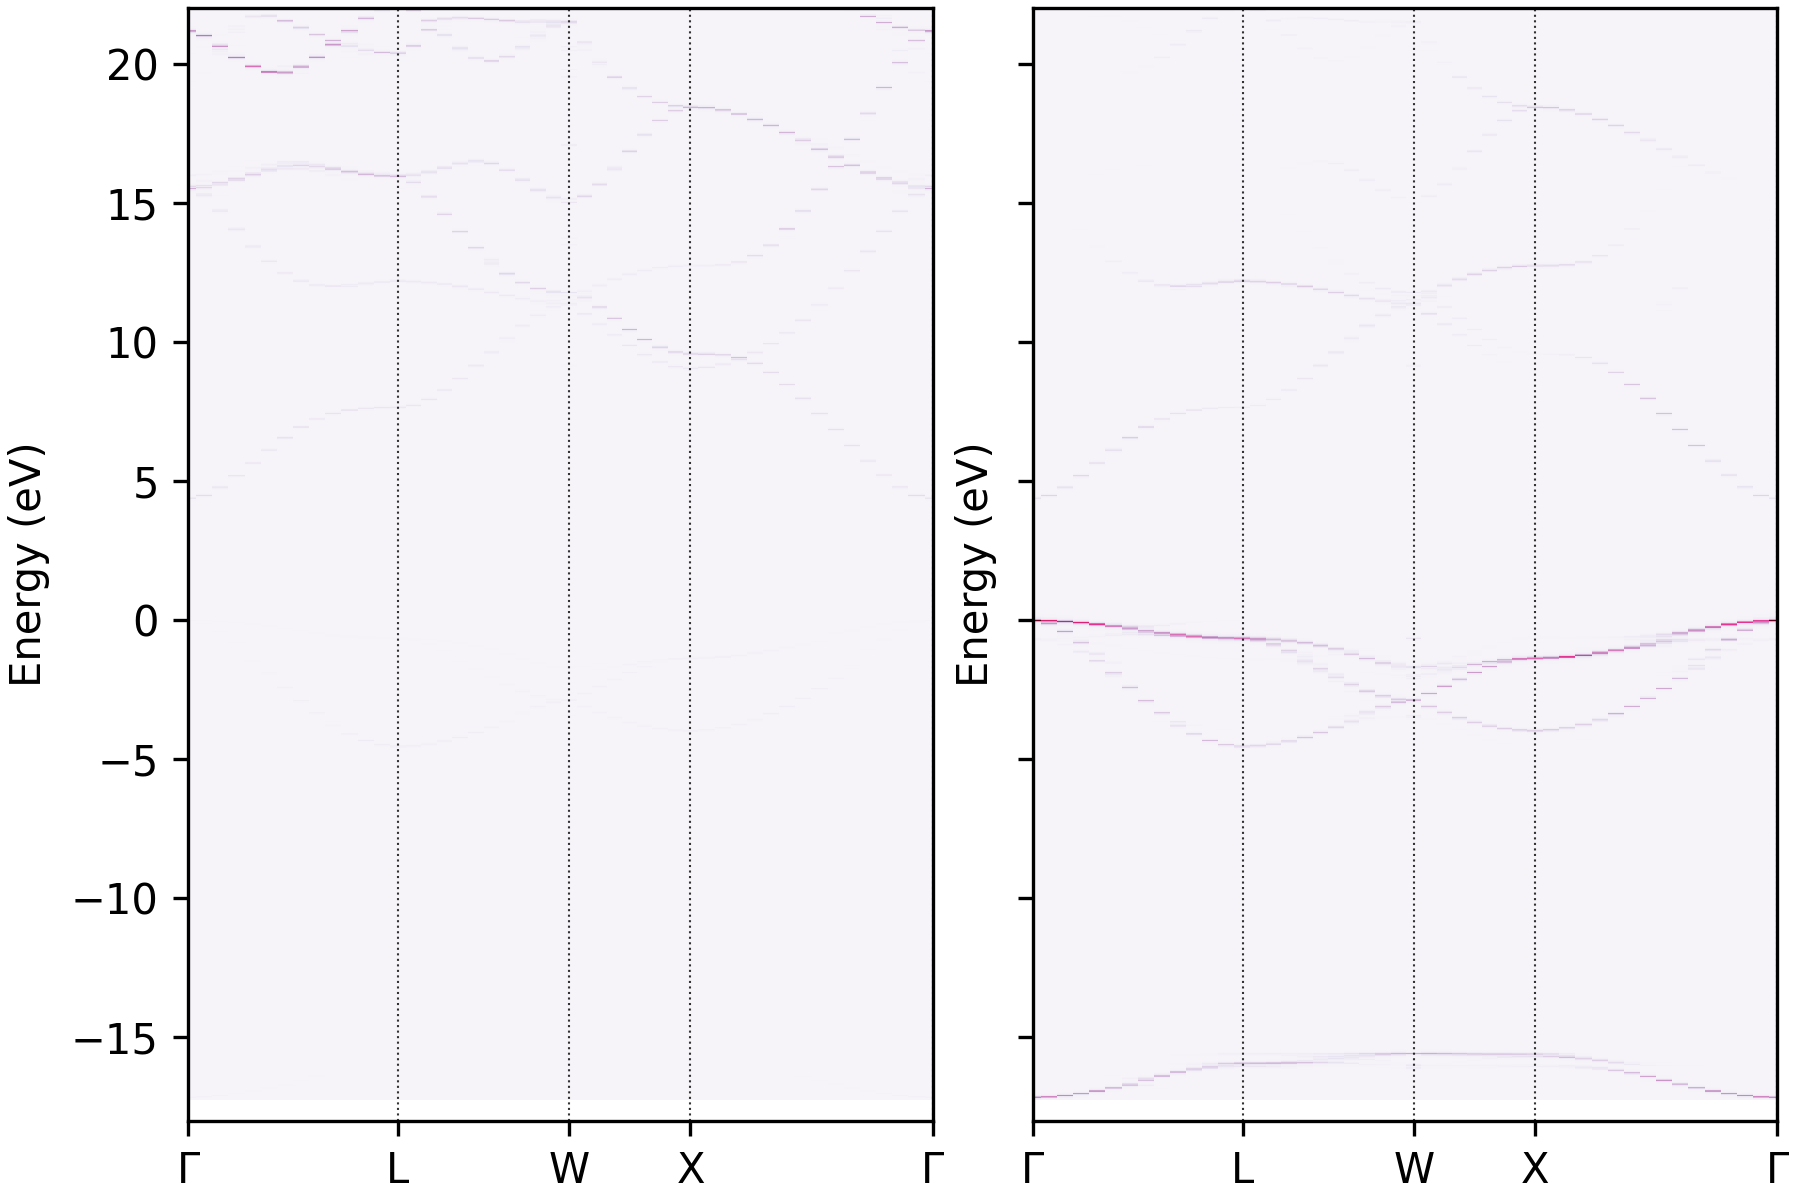
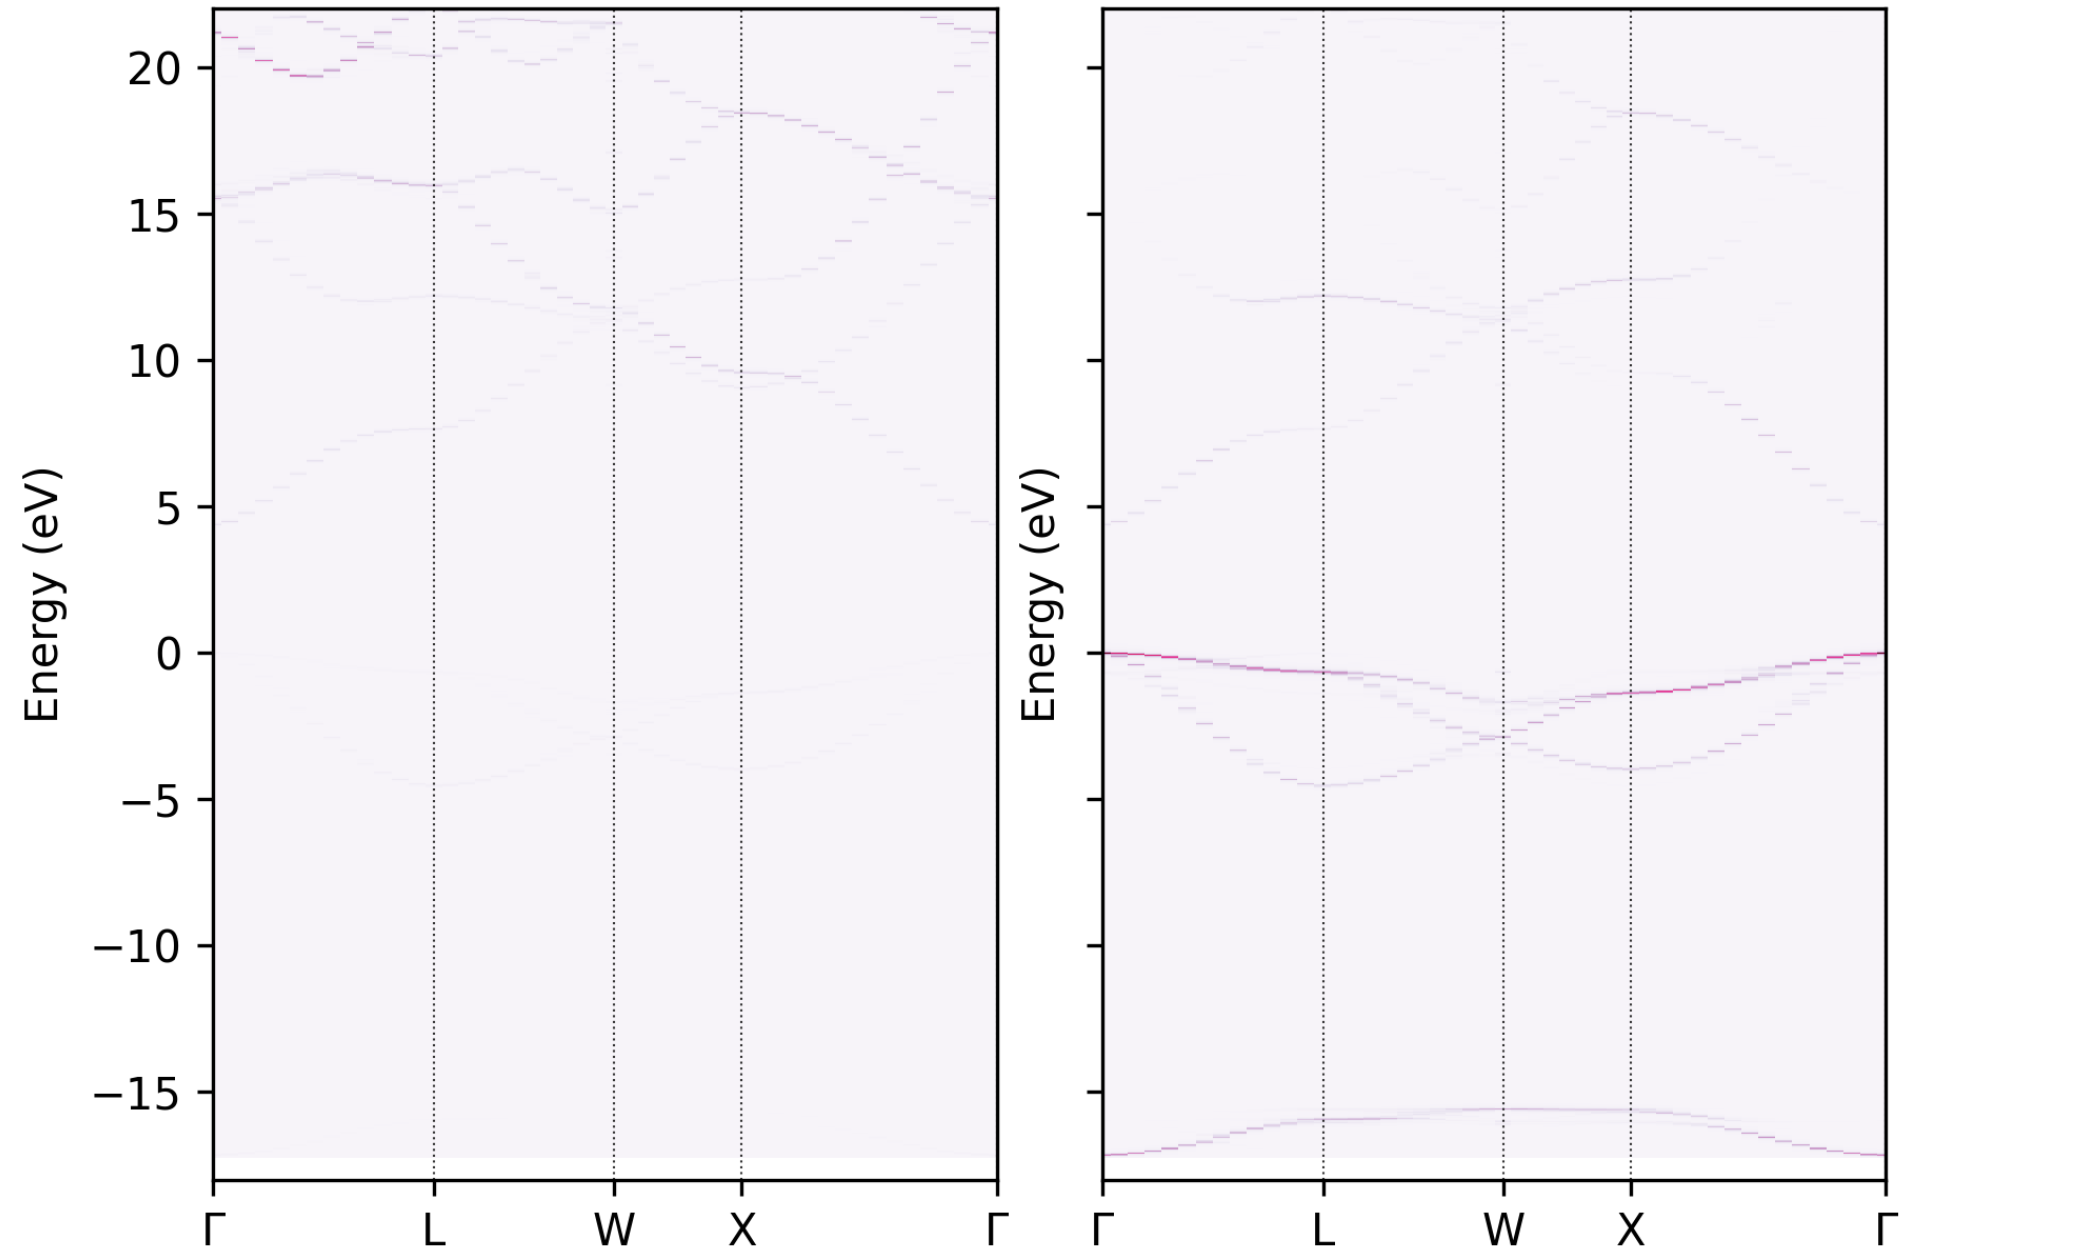
Update `MgO` docs example

diff --git a/docs/examples/example_mgo.md b/docs/examples/example_mgo.md
@@ -1,13 +1,16 @@
 # MgO with atomic projections
 
 :::{note}
-Relevant files can be found in the `examples/MgO` folder.
+The files needed for this example are provided in the 
+[examples/MgO](https://github.com/SMTG-UCL/easyunfold/tree/main/examples/MgO) folder.
 :::
 
-In some cases, it is useful to know the atomic contributions of the bands.
-This can be done for unfolded bands as well.
+Often it is useful to know the various contributions of atoms in the structure to the electronic bands 
+in the band structure, to analyse the chemistry and orbital interactions at play in the system. This 
+can be computed for unfolded bands as well.
 
-For a normal band structure, the contributions can be inferred by colouring the band according to the elemental contributions.
+For a normal band structure calculation, the contributions can be inferred by colouring the band 
+according to the elemental contributions, which can be done using [sumo](https://github.com/SMTG-UCL/sumo).
 
 ```{figure} ../../examples/MgO/MgO/band.png
 :width: 400px
@@ -16,32 +19,36 @@ For a normal band structure, the contributions can be inferred by colouring the 
 Band structure of MgO with atomic contribution </figcaption>
 ```
 
-Similar plots can be generate for unfolded band structure. However, because the spectral function itself contains both the *location* of the band and its *intensity*, adding a third information regarding the projection can be tricky.
+Similar plots can be generated for unfolded band structures. However, because the unfolded spectral 
+function itself contains both the *location* of the band and its *intensity*, adding a third 
+dimension of information (atomic projection) can be tricky to visualise.
 
-In this example, we unfold the bands from a MgO 2x1x2 supercell with the first Mg atom displaced. The procedure is essentially the same as the Si supercell example.
+In this example, we unfold the bands from a MgO 2x1x2 supercell with a Mg atom displaced to break 
+symmetry. The procedure is essentially the same as described in the 
+[Si supercell example](https://smtg-ucl.github.io/easyunfold/examples/example_si222.html).
 
-The only difference is that we turn on the calculation of orbital projections with `LORBIT=11` in the `INCAR` file.
-
-When plotting the unfolded band, the `plot-projections` subcommand is used:
+The only difference here is that we turn on the calculation of orbital projections in `VASP` with 
+`LORBIT = 11` in the `INCAR` file, and then use the `plot-projections` subcommand when plotting the 
+unfolded band structure:
 
 ```bash
-easyunfold unfold plot-projections  --procar MgO_super/PROCAR \
---atoms-idx="1-4|5-8" --out-file unfold_project.png --combined --cmap="Greens|Reds" \
---emin=-15 --emax=15
+easyunfold unfold plot-projections --procar MgO_super/PROCAR --atoms-idx="1-4|5-8" \ 
+--out-file unfold_project.png --combined --emin=-15 --emax=15
 ```
 
-Note that the path of the `PROCAR` is passed along with the group of atoms.
-In this example, the first four atoms are `Mg` the last four are `O`, and we would
-like to show the contribution of the band based on the elements.
-Different groups are separated by `|`, and `-` can be used to define the range.
-Note that use of one-based indexing for atoms, although in python zero-based indexing is used internally.
-
+Note that the path of the `PROCAR` is passed along with the desired groupings of atoms (with 
+`--atoms-idx`).
+In this example, the first four atoms are `Mg` (`1-4`) and the last four are `O` (`5-8`), and we would
+like to show the elemental contributions to the bands. Different groups are separated by `|`, and `-` 
+can be used to define the range. Note that use of one-based indexing for atoms, although in python 
+zero-based indexing is used internally.
 
 :::{note}
-The projections are not stored in the `easyunfold.json` data file. So the `PROCAR` should be kept for replotting in the future.
+The atomic projections are not stored in the `easyunfold.json` data file, so the `PROCAR` file should be 
+kept for replotting in the future.
 :::
 
-The `--combined` option creates a combined plot with each group colour with different colour maps.
+The `--combined` option creates a combined plot with different colour maps for each atomic grouping.
 The spectral intensity is used to define the transparency (`alpha`) allowing the fusion of multiple
 projections into a single plot.
 
@@ -49,7 +56,7 @@ projections into a single plot.
 :alt: MgO unfolded band structure
 :width: 400px
 :align: center
-Unfolded MgO band structure with projections. Green for Mg atoms and red for O atoms. 
+Unfolded MgO band structure with atomic projections. Red for Mg and green for O atoms. 
 ```
 
 
@@ -64,5 +71,5 @@ easyunfold unfold plot-projections  --procar MgO_super/PROCAR --atoms-idx="1-4|5
 :width: 800 px
 :alt: Projected MgO band structure  
 
-Unfolded MgO band structure with projections plotted separately
+Unfolded MgO band structure with atomic projections plotted separately (Mg left and O right).
 ```
